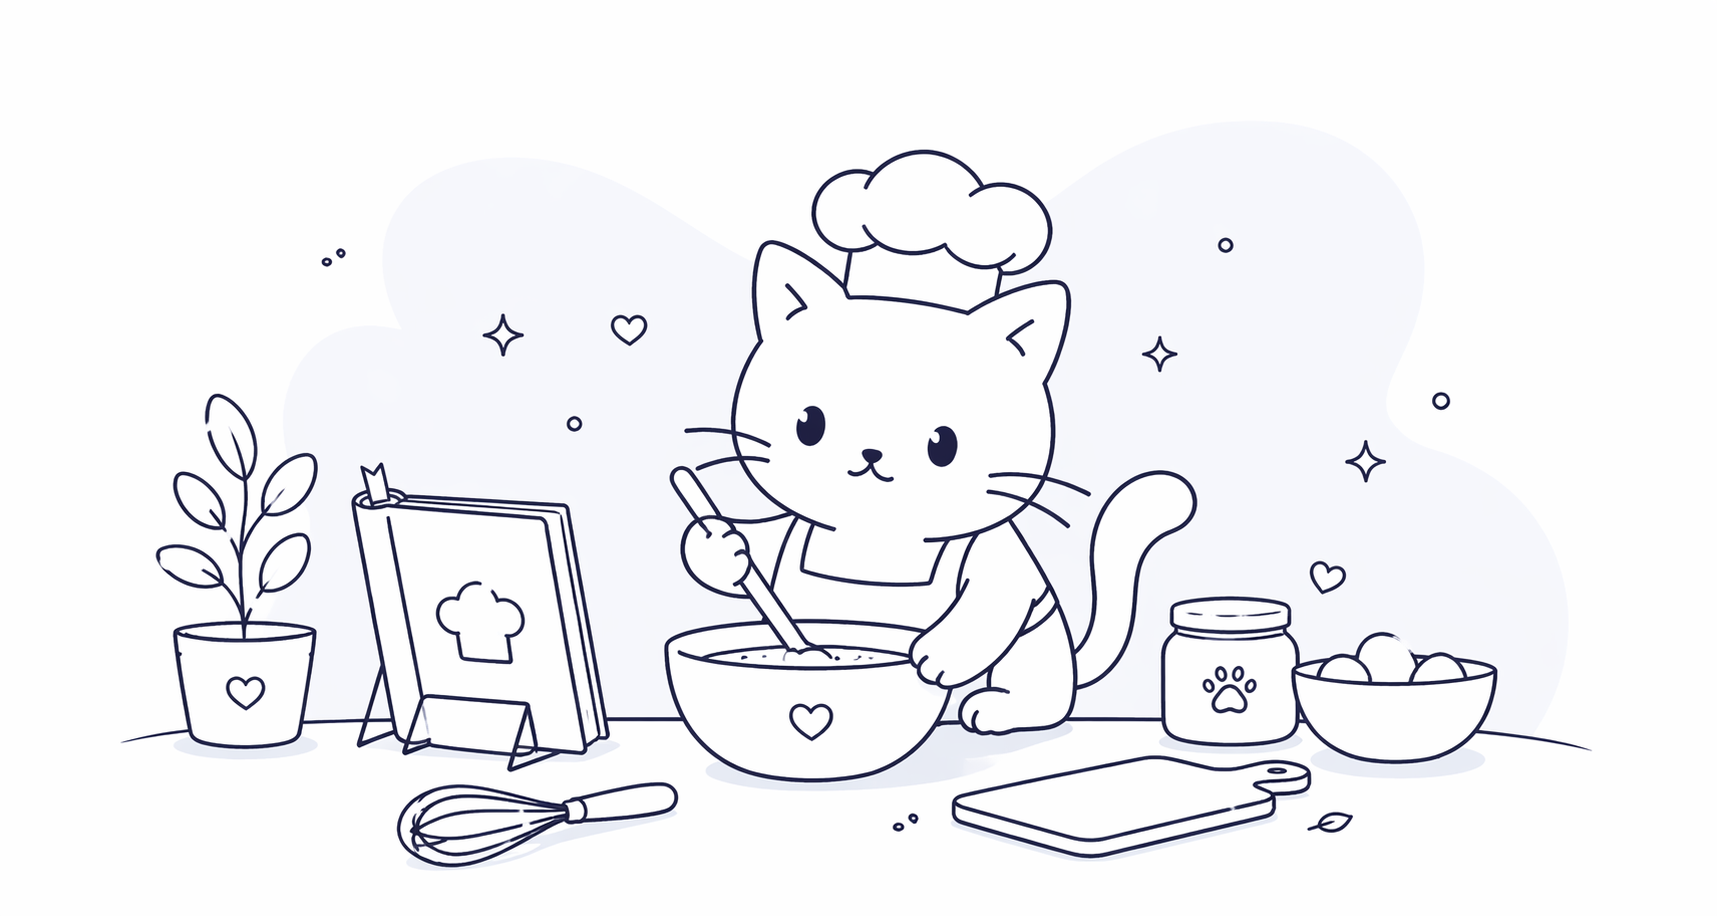
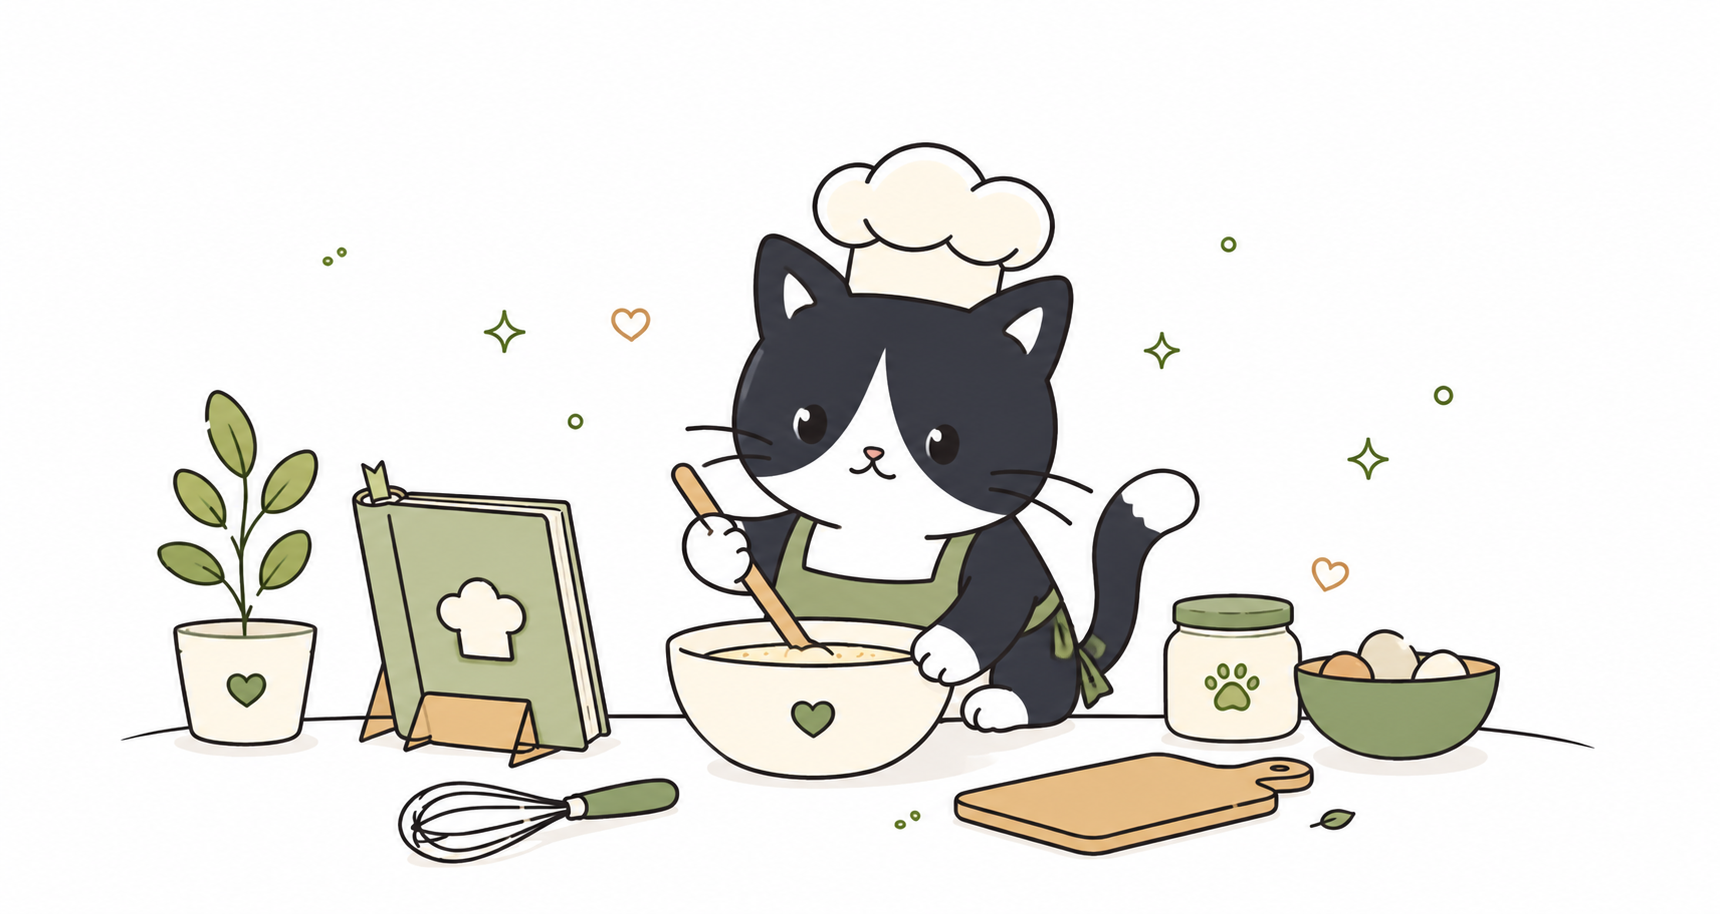
Cambio imágenes index

diff --git a/src/main/resources/templates/index.html b/src/main/resources/templates/index.html
@@ -115,41 +115,6 @@
     </nav>
     <!--Fin menú de navegación-->
 
-    <!--Banner de bienvenida-->
-    <section class="container-fluid py-5 mb-0 banner-bienvenida">
-      <div class="container">
-        <div class="row align-items-center">
-          <div class="col-md-6">
-            <h1 class="fw-bold mb-3">Descubre recetas de todo el mundo</h1>
-            <p class="mb-4 fs-5 text-muted">
-              Explora, guarda y comparte tus recetas favoritas con nuestra
-              comunidad.
-            </p>
-            <a th:href="@{/recetas}" class="btn btn-success btn-lg me-2"
-              >Ver recetas</a
-            >
-            <a
-              th:href="@{/registro}"
-              th:if="${#authorization.expression('isAnonymous()')}"
-              class="btn btn-outline-success btn-lg"
-              >Únete gratis</a
-            >
-          </div>
-          <div class="col-md-6 text-center">
-            <div class="banner-img-wrapper">
-              <img
-                th:src="@{/images/banner-bienvenida.png}"
-                alt="Banner Mon"
-                class="img-fluid"
-              />
-            </div>
-          </div>
-        </div>
-      </div>
-    </section>
-    <!--Fin banner de bienvenida-->
-    <hr />
-
     <!--Recetas destacadas-->
     <section class="container my-4">
       <h2 class="text-center mb-4">Recetas destacadas</h2>
@@ -186,6 +151,42 @@
       </div>
     </section>
     <!--Fin sección recetas destacadas-->
+
+    <hr />
+    <!--Banner de bienvenida-->
+    <section class="container-fluid py-5 mb-0 banner-bienvenida">
+      <div class="container">
+        <div class="row align-items-center">
+          <div class="col-md-6">
+            <h1 class="fw-bold mb-3">Descubre recetas de todo el mundo</h1>
+            <p class="mb-4 fs-5 text-muted">
+              Explora, guarda y comparte tus recetas favoritas con nuestra
+              comunidad.
+            </p>
+            <a th:href="@{/recetas}" class="btn btn-success btn-lg me-2"
+              >Ver recetas</a
+            >
+            <a
+              th:href="@{/registro}"
+              th:if="${#authorization.expression('isAnonymous()')}"
+              class="btn btn-outline-success btn-lg"
+              >Únete gratis</a
+            >
+          </div>
+          <div class="col-md-6 text-center">
+            <div class="banner-img-wrapper">
+              <img
+                th:src="@{/images/banner-bienvenida.png}"
+                alt="Banner Mon"
+                class="img-fluid"
+              />
+            </div>
+          </div>
+        </div>
+      </div>
+    </section>
+    <!--Fin banner de bienvenida-->
+    <hr />
 
     <!--Categorías destacadas-->
     <section class="container my-4">

diff --git a/src/main/resources/static/css/mis-recetas.css b/src/main/resources/static/css/mis-recetas.css
@@ -31,8 +31,8 @@
 }
 
 .card:hover {
-  transform: translateY(-4px);
-  box-shadow: 0 6px 16px rgba(0, 0, 0, 0.1);
+  transform: translateY(-2px);
+  box-shadow: 0 3px 8px rgba(0, 0, 0, 0.1);
 }
 
 .card a {
